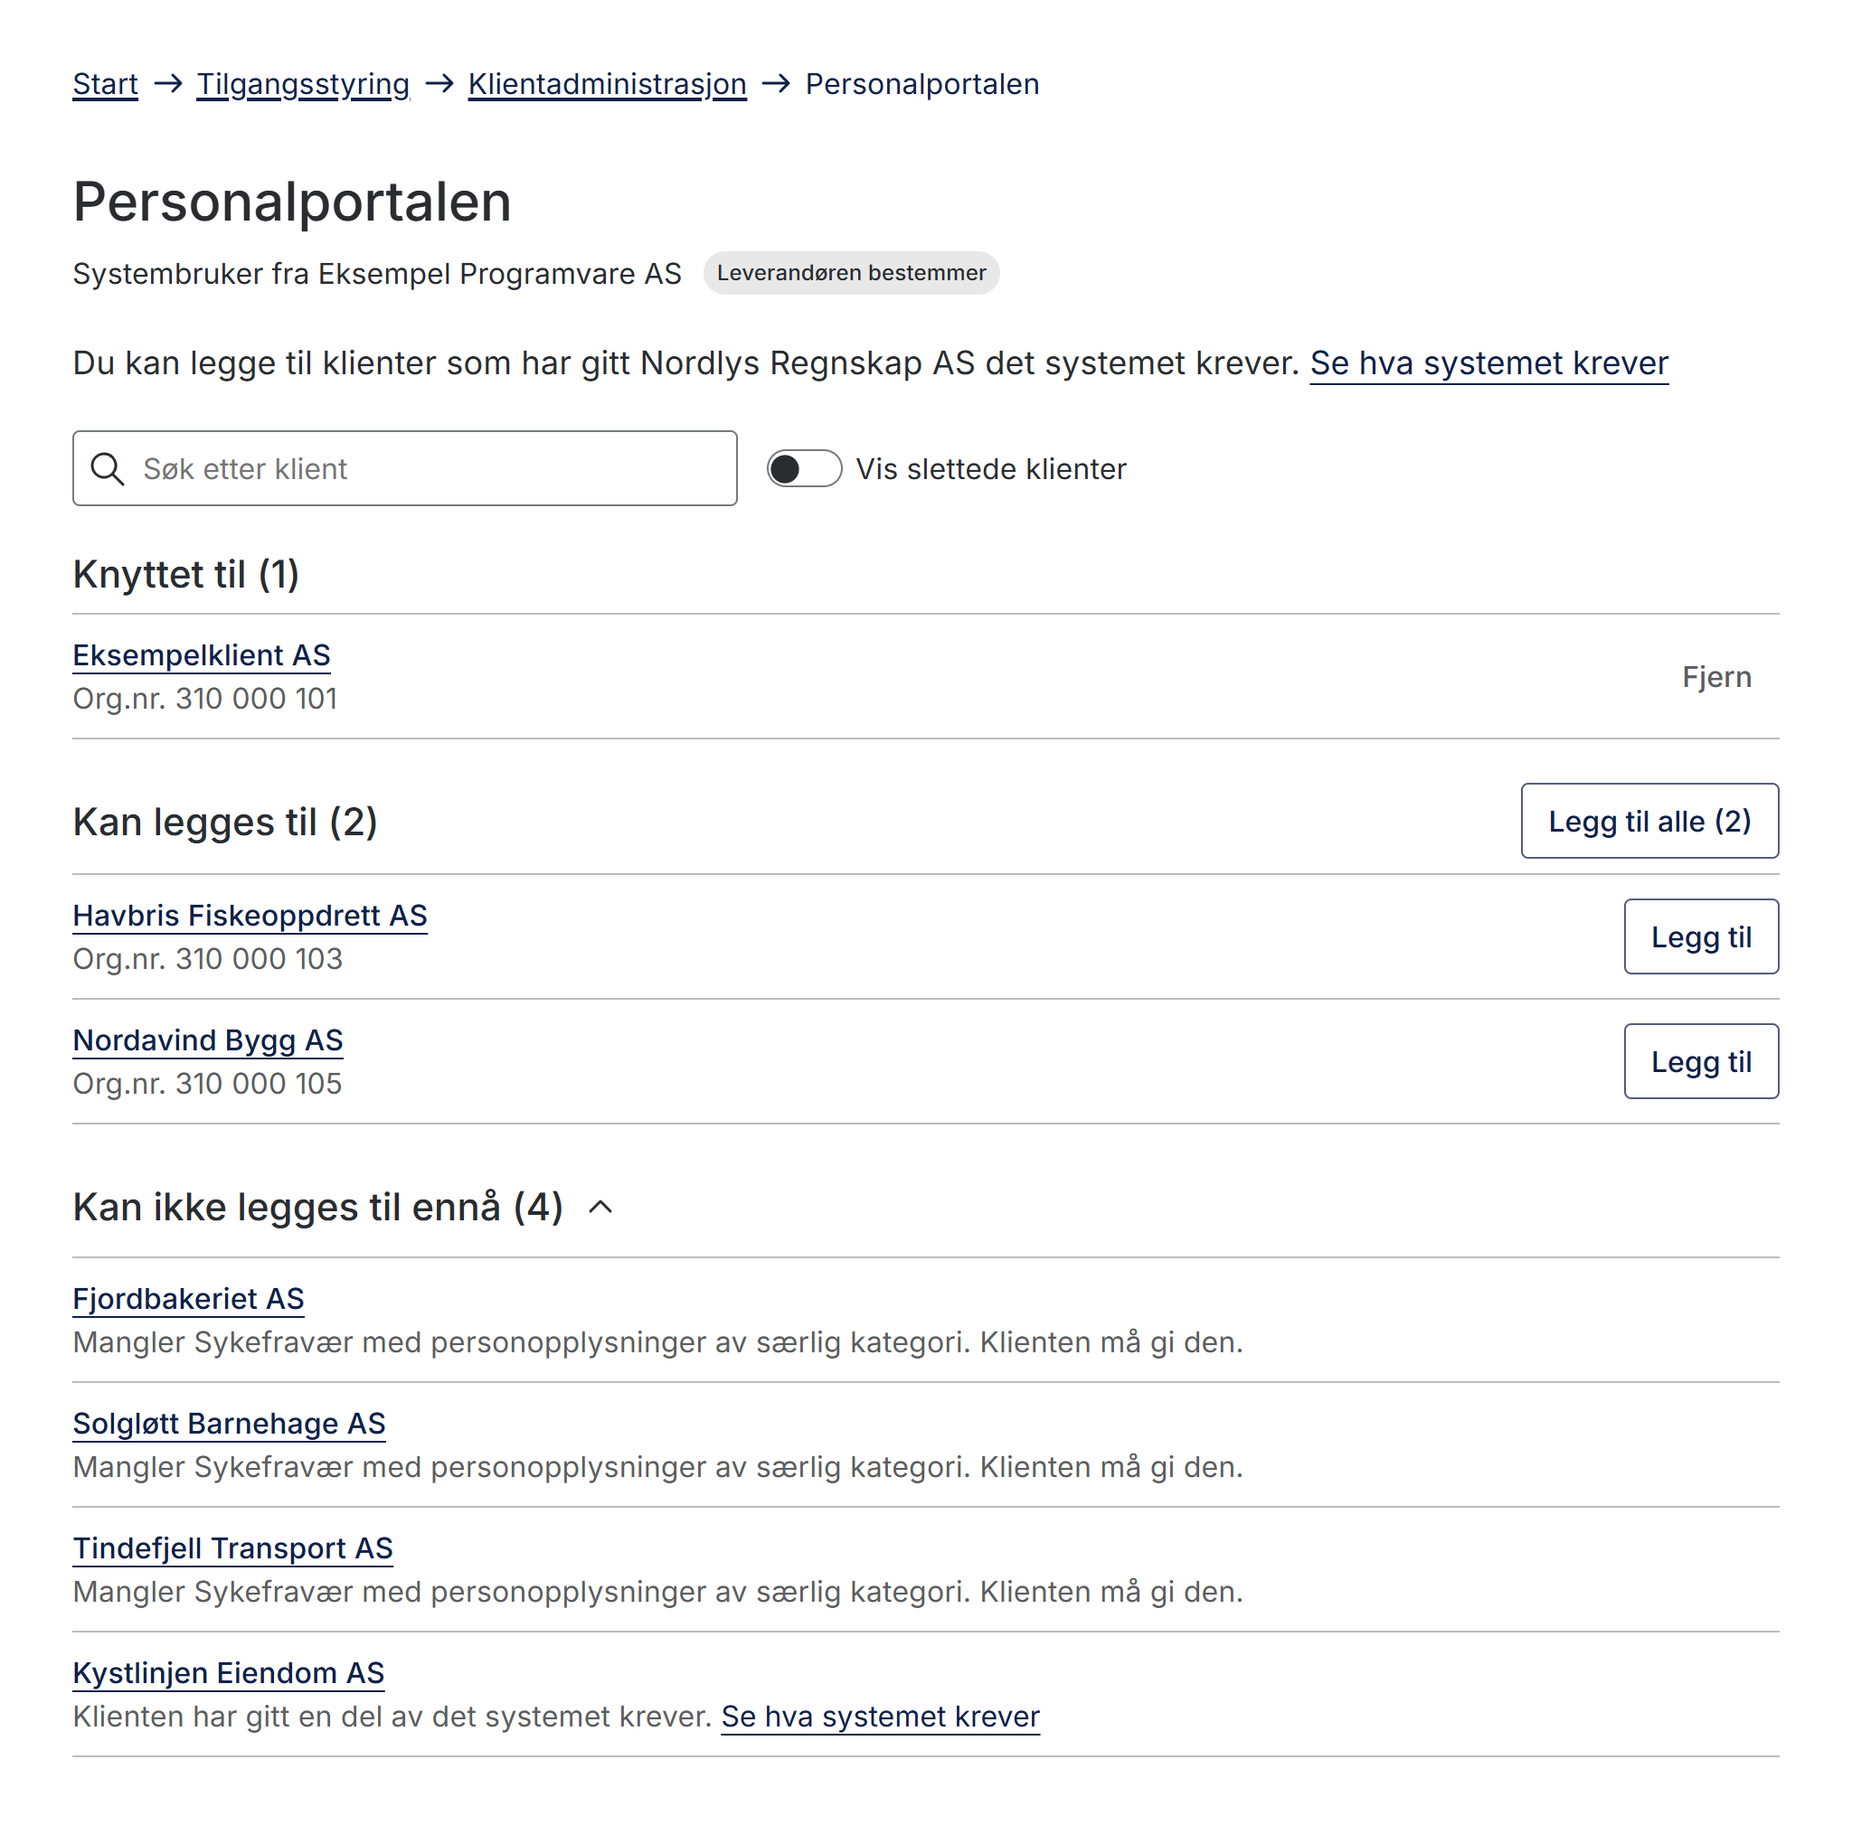
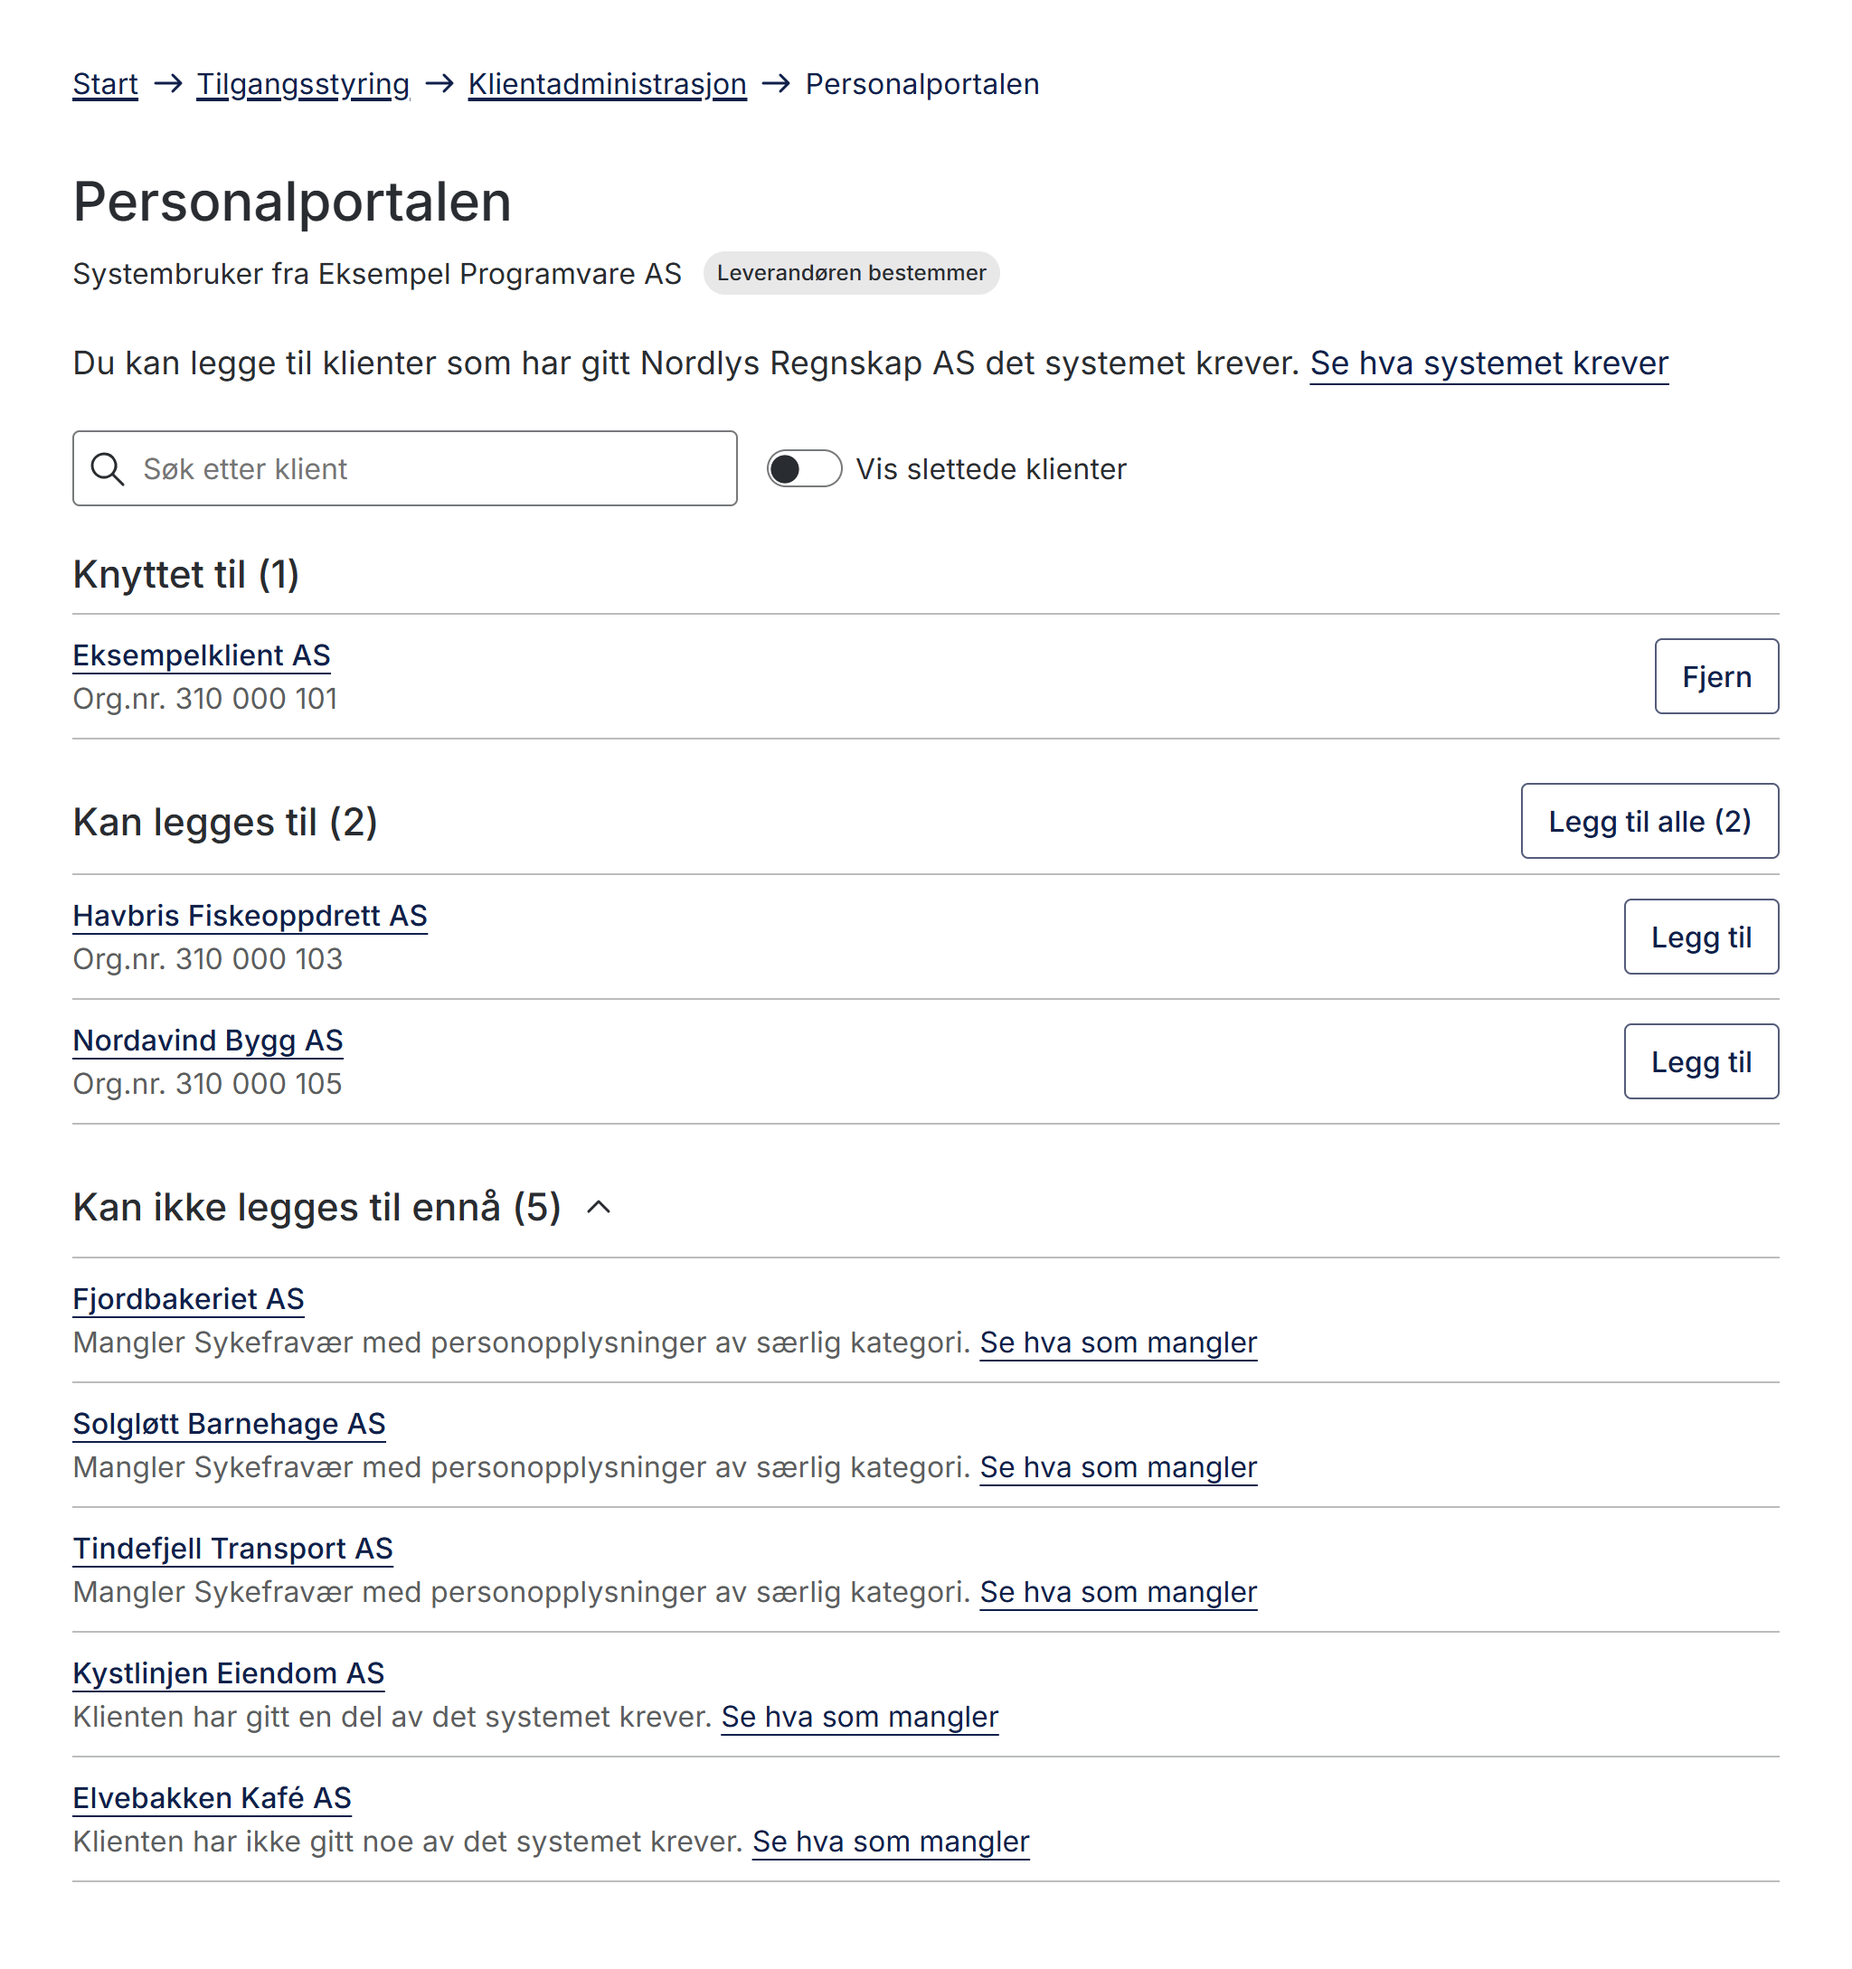
docs: add client scenarios to vendor deck (#3295)

diff --git a/content/authorization/guides/system-vendor/system-user/endringer-for-leverandorer.nb.md b/content/authorization/guides/system-vendor/system-user/endringer-for-leverandorer.nb.md
@@ -439,9 +439,9 @@ Virksomheten ser hvilke klienter som er lagt til, hvilke de kan legge til, og hv
 ---
 ## Klienter som ikke kan legges til ennå
 
-Hver klient viser hva som mangler, eller lenken **Se hva systemet krever** når klienten mangler like mye til alle settene. Dette kan du vise til når en kunde spør hvorfor en klient ikke kan legges til.
+Hver klient viser kort hva som mangler, og lenken **Se hva som mangler** åpner detaljene for den klienten. Dette kan du vise til når en kunde spør hvorfor en klient ikke kan legges til.
 
-[![Personalportalen med listen over klienter som ikke kan legges til ennå: tre mangler Sykefravær-pakken, og Kystlinjen Eiendom AS har gitt en del av det systemet krever](/images/authorization/systemuser/2026-11-05/klienter-kan-ikke-legges-til.png)](/images/authorization/systemuser/2026-11-05/klienter-kan-ikke-legges-til.png "Åpne skissen i full størrelse")
+[![Personalportalen med listen over klienter som ikke kan legges til ennå: tre mangler Sykefravær-pakken, Kystlinjen Eiendom AS har gitt en del av det systemet krever, og Elvebakken Kafé AS har ikke gitt noe av det, alle med lenken Se hva som mangler](/images/authorization/systemuser/2026-11-05/klienter-kan-ikke-legges-til.png)](/images/authorization/systemuser/2026-11-05/klienter-kan-ikke-legges-til.png "Åpne skissen i full størrelse")
 
 *Skisse, ikke et designforslag. Klikk på bildet for full størrelse.*
 
@@ -518,6 +518,61 @@ Elvebakken Kafé AS har bare gitt Merverdiavgift. Pakken finnes ikke i noen av s
 *Skisse, ikke et designforslag. Klikk på bildet for full størrelse.*
 
 ---
+## Scenario: klienten har gitt en helt annen pakke
+
+**Situasjon:** Elvebakken Kafé AS har bare gitt Merverdiavgift. Klienten mangler alt systemet krever, og Altinn kan ikke vite hvilket kundeforhold klienten skal ha. Derfor viser dialogen alle kombinasjonene.
+
+**Det byrået gjør:** Åpner **Se hva som mangler**, avklarer kundeforholdet, og ber klienten gi det som mangler. Merverdiavgift-pakken påvirker ikke Personalportalen.
+
+[![Dialogen Hvorfor kan ikke Elvebakken Kafé AS legges til: klienten har gitt Merverdiavgift, og mangler én av tre kombinasjoner](/images/authorization/systemuser/2026-11-05/hvorfor-elvebakken.png)](/images/authorization/systemuser/2026-11-05/hvorfor-elvebakken.png "Åpne skissen i full størrelse")
+
+*Skisse, ikke et designforslag. Klikk på bildet for full størrelse.*
+
+---
+## Scenario: pakke med nesten likt navn
+
+**Situasjon:** Byrået ba Fjordbakeriet AS gi Sykefravær med personopplysninger av særlig kategori, men klienten ga pakken Sykefravær. Dette er to ulike pakker.
+
+**Det byrået gjør:** Åpner **Se hva som mangler**, ser hva klienten ga, og ber klienten gi riktig pakke. Da slipper byrået å gå via support. Når pakken er gitt, kan byrået legge til klienten.
+
+[![Dialogen Hvorfor kan ikke Fjordbakeriet AS legges til: klienten har gitt tre regnskapsførerpakker og Sykefravær, og mangler Sykefravær med personopplysninger av særlig kategori](/images/authorization/systemuser/2026-11-05/hvorfor-fjordbakeriet.png)](/images/authorization/systemuser/2026-11-05/hvorfor-fjordbakeriet.png "Åpne skissen i full størrelse")
+
+*Skisse, ikke et designforslag. Klikk på bildet for full størrelse.*
+
+---
+## Scenario: klienten mangler like mye til flere sett
+
+**Situasjon:** Kystlinjen Eiendom AS har bare gitt Sykefravær-pakken med særlig kategori. Hver kombinasjon mangler én tilgang, så Altinn peker ikke på en bestemt av dem.
+
+**Det byrået gjør:** Avklarer kundeforholdet. Er byrået regnskapsfører eller revisor, registrerer klienten det i Enhetsregisteret. Ellers kan klienten gi A-ordningen direkte.
+
+[![Dialogen Hvorfor kan ikke Kystlinjen Eiendom AS legges til: klienten har gitt Sykefravær-pakken, og mangler én av Regnskapsfører lønn, Revisormedarbeider og A-ordningen](/images/authorization/systemuser/2026-11-05/hvorfor-kystlinjen.png)](/images/authorization/systemuser/2026-11-05/hvorfor-kystlinjen.png "Åpne skissen i full størrelse")
+
+*Skisse, ikke et designforslag. Klikk på bildet for full størrelse.*
+
+---
+## Scenario: klienten står ikke i listen
+
+**Situasjon:** Byrået finner ikke Granly Hage. Det kan skyldes en skrivefeil, at virksomheten ikke har gitt noe, eller at de har gitt tilgangen til en annen virksomhet. Siden viser ikke noe om virksomheten.
+
+**Det byrået gjør:** Sjekker søket, og ber virksomheten sjekke at tilgangen er gitt til riktig organisasjonsnummer.
+
+[![Siden for Personalportalen etter søk på Granly Hage: ingen treff, med råd om å sjekke søket og be virksomheten sjekke tilgangen](/images/authorization/systemuser/2026-11-05/sok-uten-treff.png)](/images/authorization/systemuser/2026-11-05/sok-uten-treff.png "Åpne skissen i full størrelse")
+
+*Skisse, ikke et designforslag. Klikk på bildet for full størrelse.*
+
+---
+## Scenario: klienten er slettet i Enhetsregisteret
+
+**Situasjon:** Slettede klienter er skjult til byrået slår på **Vis slettede klienter**. De kan ikke legges til. Gamle Verksted AS ble slettet mens klienten var knyttet til Personalportalen.
+
+**Det byrået gjør:** Fjerner klienten fra systembrukeren. Vi har ikke avklart om systembrukeren fortsatt har tilgang for en slettet klient.
+
+[![Siden for Personalportalen med Vis slettede klienter slått på: Slettet Bygg AS uten handling, og Gamle Verksted AS med knappen Fjern](/images/authorization/systemuser/2026-11-05/slettede-klienter.png)](/images/authorization/systemuser/2026-11-05/slettede-klienter.png "Åpne skissen i full størrelse")
+
+*Skisse, ikke et designforslag. Klikk på bildet for full størrelse.*
+
+---
 ## Dette er likt som i dag for virksomhetene
 
 - Virksomheten godkjenner forespørselen fra lenken du sender, som nå.
@@ -536,6 +591,8 @@ Elvebakken Kafé AS har bare gitt Merverdiavgift. Pakken finnes ikke i noen av s
 - Hvor mange rettighetssett du kan oppgi.
 - Om Altinn sammenligner tilgangspakkene i settet, eller tjenestene pakkene gir tilgang til. Skissene forutsetter tilgangspakkene.
 - Hva listen skal vise når en klient mangler like mye til flere sett. Skissene viser ingen bestemt pakke.
+- Hvilke virksomheter listen viser. Skissene forutsetter at en virksomhet vises først når den har gitt byrået en tilgang.
+- Om systembrukeren fortsatt har tilgang for en klient som er slettet i Enhetsregisteret.
 - Når funksjonaliteten blir tilgjengelig i testmiljøet og i produksjon.
 
 Vi oppdaterer veiledningene for systemleverandører og virksomheter før funksjonaliteten blir tilgjengelig.
@@ -569,7 +626,7 @@ Vi oppdaterer veiledningene for systemleverandører og virksomheter før funksjo
 | R6 | Den eneste endringen er å slette hele systembrukeren, med alle tilganger og klientdelegeringer. |
 | R7 | Siden forklarer at leverandøren bestemmer tilgangene, og at endringer kommer som en endringsforespørsel. |
 | R8 | Når virksomheten knytter til en klient, gir de det første rettighetssettet klienten oppfyller fullt ut, samlet. Det er hele settet eller ingenting. |
-| R9 | Virksomheten kan ikke knytte til klienter som ikke oppfyller noen av settene. Siden viser dem likevel, med hva som mangler. |
+| R9 | Virksomheten kan ikke knytte til klienter som ikke oppfyller noen av settene. Siden viser dem likevel, med hva som mangler. En dialog per klient viser hva klienten har gitt, og hva som mangler. |
 | R10 | Virksomheten kan fjerne en klient. Da fjerner de hele settet for den klienten. |
 | R11 | Virksomheten kan knytte til mange klienter samtidig. |
 | R12 | Siden skjuler slettede klienter som standard, med et valg for å vise dem. |
